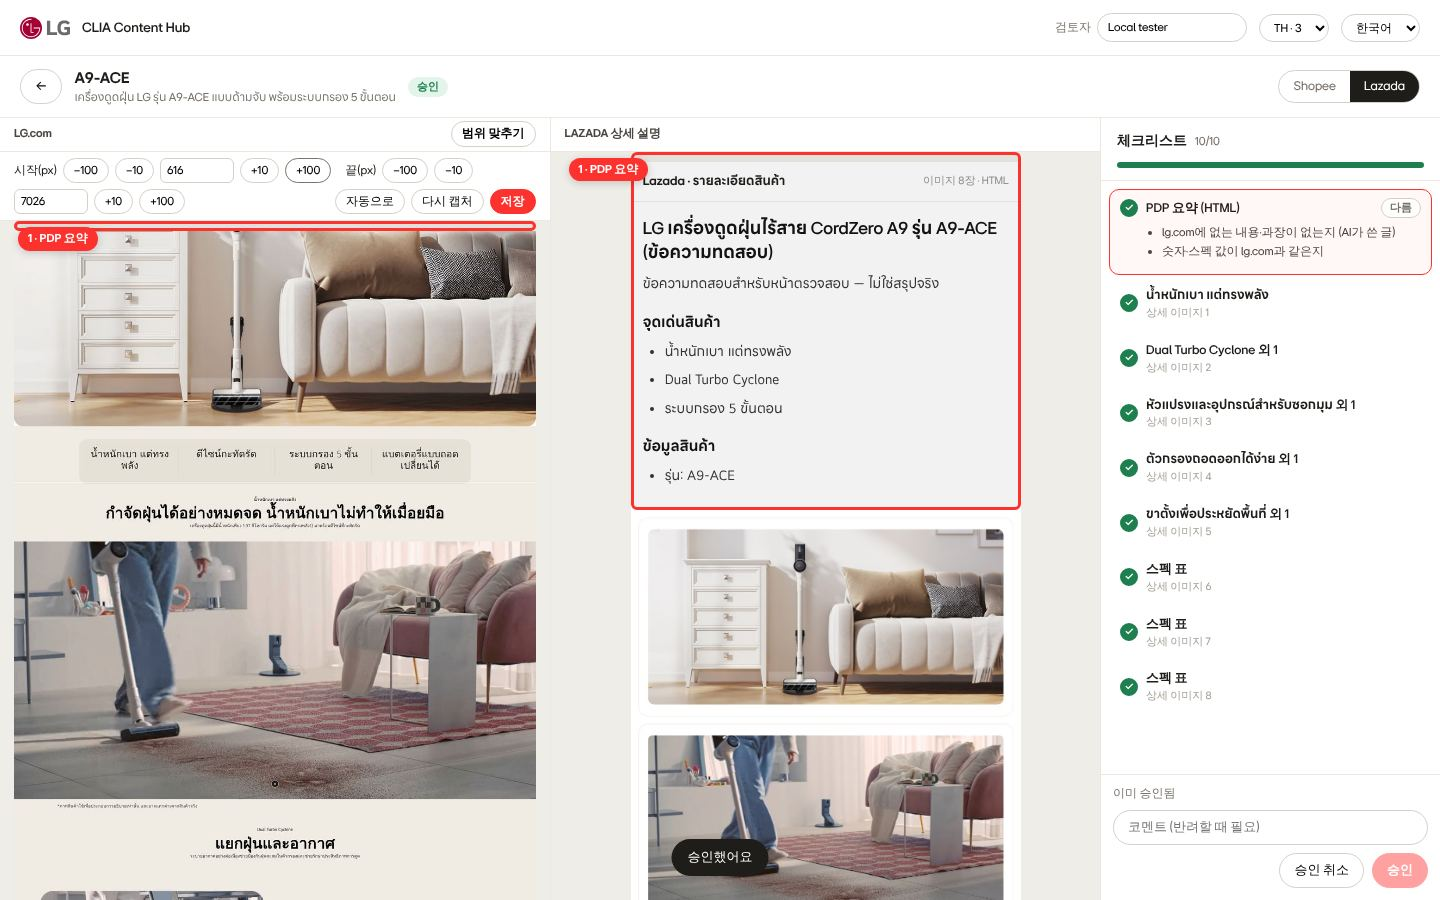
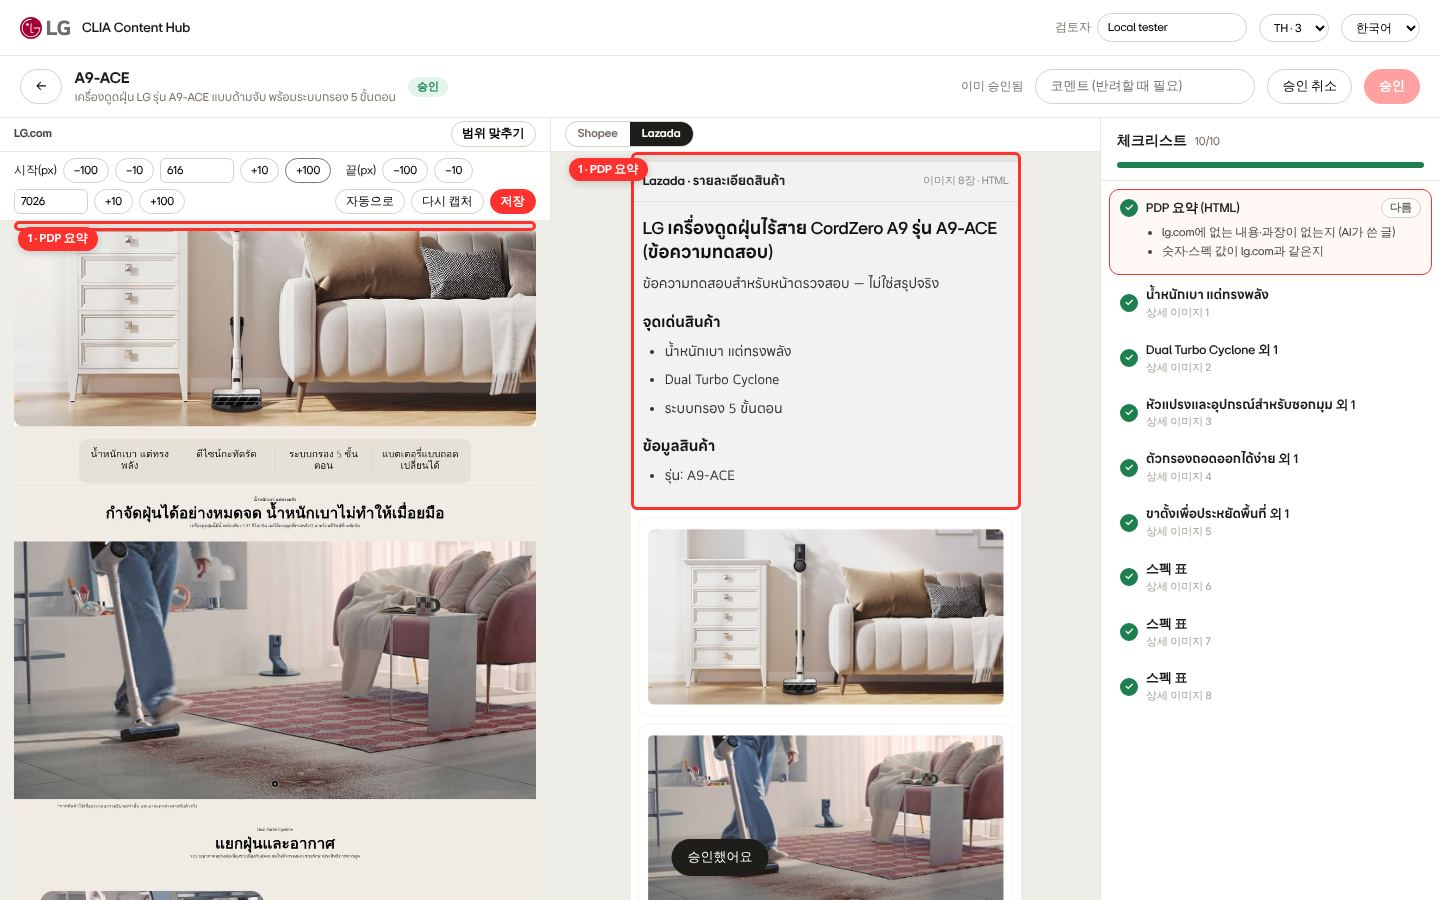
검토 화면: 결정 버튼은 오른쪽 위, Shopee/Lazada 토글은 오른쪽(결과) 패널 머리로
- 비교: 머리 줄 오른쪽에 [승인 못 하는 까닭 · 코멘트 · 반려|승인 취소 · 승인]
- 목록: 고르면 제목 줄 오른쪽에 [n개 선택 · 취소 · 선택 승인]
- 채널 토글은 그 토글이 바꾸는 결과 패널 머리에 (작은 토글)

Claude-Session: https://claude.ai/code/session_01Qc8KZ9fFX6kBVHrq9Tv6ME

diff --git a/review/index.html b/review/index.html
@@ -65,8 +65,10 @@ td .m,.cb .m{font-weight:700}td .s{font-size:12px;color:var(--g500);max-width:42
 .cb .meta{font-size:12px;color:var(--g700)}
 .empty{text-align:center;color:#999;padding:30px}
 .more{text-align:center;padding:14px}
-.selbar{position:absolute;right:24px;bottom:18px;background:var(--g900);color:#fff;border-radius:999px;padding:8px 10px 8px 18px;display:none;gap:10px;align-items:center;box-shadow:0 8px 24px rgba(0,0,0,.25)}
-.selbar.on{display:flex}.selbar small{color:#cfc9bf}
+.selbar{display:none;gap:8px;align-items:center;font-size:13px;color:var(--g700)}.selbar.on{display:flex}
+.chd .why{font-size:12px;color:var(--g500);max-width:280px;white-space:nowrap;overflow:hidden;text-overflow:ellipsis}
+.chd .cmt{width:220px;border:1px solid var(--g300);border-radius:999px;padding:7px 14px;font:inherit;font-size:13px}.chd .cmt.err{border-color:var(--bad)}
+.seg.sm button{padding:3px 12px;font-size:12px}
 /* 비교 */
 .chd{display:flex;align-items:center;gap:12px;padding:10px 20px;background:#fff;border-bottom:1px solid var(--line)}
 .chd .id .m{font-weight:700;font-size:16px}.chd .id .s{font-size:12px;color:var(--g500);max-width:460px;white-space:nowrap;overflow:hidden;text-overflow:ellipsis}
@@ -106,9 +108,6 @@ td .m,.cb .m{font-weight:700}td .s{font-size:12px;color:var(--g500);max-width:42
 .prep .err{color:var(--bad);font-size:13px;margin:0 0 10px;word-break:break-word}.prep p{font-size:12px;color:var(--g500);margin:0 0 12px}
 aside{display:flex;flex-direction:column;min-height:0;background:#fff;border-left:1px solid var(--line)}
 .ckh{padding:12px 16px 10px;border-bottom:1px solid var(--line)}.ckh b{font-size:14px}.ckh .p{font-size:12px;color:var(--g500);margin-left:8px}
-.ckf{border-top:1px solid var(--line);padding:10px 12px 12px;display:grid;gap:8px;background:#fff}.ckf .why{font-size:12px;color:var(--g500);min-height:16px}
-.ckf input{width:100%;border:1px solid var(--g300);border-radius:999px;padding:7px 14px;font:inherit;font-size:13px}.ckf input.err{border-color:var(--bad)}
-.ckf .acts{display:flex;gap:8px;justify-content:flex-end}
 .ckh .prog{width:100%;height:6px;margin:8px 0 0}
 .ckl{flex:1;overflow:auto;padding:6px 8px 40px}
 .it{border-radius:10px;padding:8px 10px;margin:2px 0;cursor:pointer;border:1px solid transparent}
@@ -133,7 +132,8 @@ aside{display:flex;flex-direction:column;min-height:0;background:#fff;border-lef
  <button class="btn" id="closeBtn" hidden onclick="parent.postMessage('clia-review-close','*')">✕</button></div>
 
 <main class="view on" id="vList">
- <div class="lhd"><h2 data-t="h"></h2><span class="sp"></span><span class="cnt" id="okCnt"></span></div>
+ <div class="lhd"><h2 data-t="h"></h2><span class="cnt" id="okCnt"></span><span class="sp"></span>
+  <div class="selbar" id="selbar"><span id="selN"></span><button class="btn" onclick="S.sel.clear();renderList()" data-t="cancel"></button><button class="btn pri" onclick="bulkApprove()" data-t="approveSel"></button></div></div>
  <div class="flt">
   <div class="tabs" id="tabs"></div>
   <details class="dd" id="ddDv"><summary id="sDv"></summary><div class="ddp" id="pDv"></div></details>
@@ -147,13 +147,13 @@ aside{display:flex;flex-direction:column;min-height:0;background:#fff;border-lef
   <th style="width:36px"></th><th style="width:56px"></th><th data-t="thProd"></th><th data-t="thGrp"></th><th data-t="thImgs"></th><th data-t="thSt"></th></tr></thead>
   <tbody id="rows"></tbody></table><div class="more" id="moreL"></div></div>
  <div class="gal" id="galBox" hidden><div class="cards" id="cards"></div><div class="more" id="moreG"></div></div>
- <div class="selbar" id="selbar"><span id="selN"></span><button class="btn" onclick="S.sel.clear();renderList()" data-t="cancel"></button><button class="btn pri" onclick="bulkApprove()" data-t="approveSel"></button></div>
 </main>
 
 <main class="view" id="vCmp">
  <div class="chd"><button class="btn" onclick="closeCmp()">←</button><div class="id"><div class="m" id="cModel"></div><a class="s" id="cTitle" lang="th" target="_blank" rel="noopener"></a></div>
   <span id="cSt"></span><span class="sp"></span>
-  <div class="seg" id="chSeg"><button data-c="shopee" onclick="setCh('shopee')">Shopee</button><button data-c="lazada" onclick="setCh('lazada')">Lazada</button></div></div>
+  <span class="why" id="bWhy"></span><input class="cmt" id="cmt" data-tp="cmtPh">
+  <button class="btn" id="bUndo" hidden onclick="unapprove()" data-t="unapprove"></button><button class="btn" id="bRej" onclick="reject()" data-t="reject"></button><button class="btn pri" id="bOk" onclick="approve()" data-t="approve"></button></div>
  <div class="banner" id="banner" hidden><span id="bannerTx"></span><button class="btn sm" onclick="prepareCur(false)" data-t="reprep"></button></div>
  <div class="main">
   <div class="sc" id="sc">
@@ -163,14 +163,12 @@ aside{display:flex;flex-direction:column;min-height:0;background:#fff;border-lef
       <span data-t="cropBottom" style="margin-left:8px"></span><button class="btn sm" onclick="nudge('bottom',-100)">−100</button><button class="btn sm" onclick="nudge('bottom',-10)">−10</button><input id="cBot" type="number" onchange="cropInput()"><button class="btn sm" onclick="nudge('bottom',10)">+10</button><button class="btn sm" onclick="nudge('bottom',100)">+100</button>
       <span class="sp" style="flex:1"></span><button class="btn sm" onclick="cropAuto()" data-t="cropAuto"></button><button class="btn sm" onclick="recapture()" data-t="recapture"></button><button class="btn sm pri" onclick="cropSave()" data-t="cropSave"></button></div>
      <div class="vp" id="vpL"><div class="mv" id="mvL"></div><div class="segbox" id="segL" hidden></div><span class="segtag" id="segTagL"></span></div></section>
-    <section class="pane"><div class="ph"><span id="rTitle"></span><span class="r"><span class="badge b-warn" id="imgWarn" hidden></span></span></div><div class="vp" id="vpR"><div class="mv" id="mvR"></div><div class="segbox" id="segR" hidden></div><span class="segtag" id="segTagR"></span></div></section>
+    <section class="pane"><div class="ph"><div class="seg sm" id="chSeg"><button data-c="shopee" onclick="setCh('shopee')">Shopee</button><button data-c="lazada" onclick="setCh('lazada')">Lazada</button></div><span class="r"><span class="badge b-warn" id="imgWarn" hidden></span></span></div><div class="vp" id="vpR"><div class="mv" id="mvR"></div><div class="segbox" id="segR" hidden></div><span class="segtag" id="segTagR"></span></div></section>
    </div>
    <div id="spacer"></div><div id="snaps"></div>
    <div class="prep" id="prep"><div class="box" id="prepBox"></div></div>
   </div>
-  <aside><div class="ckh"><b data-t="ck"></b><span class="p" id="ckP"></span><div class="prog"><i id="ckBar"></i></div></div><div class="ckl" id="ckl"></div>
-   <div class="ckf"><div class="why" id="bWhy"></div><input id="cmt" data-tp="cmtPh">
-    <div class="acts"><button class="btn" id="bUndo" hidden onclick="unapprove()" data-t="unapprove"></button><button class="btn" id="bRej" onclick="reject()" data-t="reject"></button><button class="btn pri" id="bOk" onclick="approve()" data-t="approve"></button></div></div></aside>
+  <aside><div class="ckh"><b data-t="ck"></b><span class="p" id="ckP"></span><div class="prog"><i id="ckBar"></i></div></div><div class="ckl" id="ckl"></div></aside>
  </div>
 </main>
 <div class="toast" id="toast"></div>
@@ -449,7 +447,6 @@ function renderCmp(fresh,keepS){
   if(!C)return;const p=C.p,ch=C.ch,shp=ch==='shopee',d=C.d[ch];
   $('cModel').textContent=p.model;$('cTitle').textContent=p.title;$('cTitle').href=p.url;
   document.querySelectorAll('#chSeg button').forEach(b=>b.classList.toggle('on',b.dataset.c===ch));
-  $('rTitle').textContent=t('rTitle',shp?'SHOPEE':'LAZADA');
   renderPrep();
   const stale=CHS.some(c=>C.st[c]&&C.st[c].state==='stale');$('banner').hidden=!stale;$('bannerTx').textContent=t('staleTx');
   renderBar();
@@ -587,8 +584,8 @@ function renderBar(){
   if(!C)return;const p=C.p,s=stOf(p),done=s==='ok',both=CHS.every(ready),pr=progress();
   const stale=CHS.some(ch=>C.st[ch]&&C.st[ch].state==='stale');
   const why=done?t('whyDone'):stale?t('whyStale'):!both?t('whyPrep'):pr.flags?t('whyFlag',pr.flags):pr.n<pr.all?t('whyProg',pr.n,pr.all):'';
-  // 버튼 자리는 늘 같다: 오른쪽 아래 [반려 | 승인 취소] [승인]. 승인을 못 하는 까닭은 버튼 위 한 줄로
-  $('bWhy').textContent=why;$('bOk').disabled=!!why;$('bRej').hidden=done;$('bUndo').hidden=!done;
+  // 버튼 자리는 늘 같다: 오른쪽 위 [반려 | 승인 취소] [승인]. 승인을 못 하는 까닭은 그 왼쪽 한 줄로
+  $('bWhy').textContent=why;$('bWhy').title=why;$('bOk').disabled=!!why;$('bRej').hidden=done;$('bUndo').hidden=!done;
   $('cSt').innerHTML=stBadge(p);
 }
 async function decide(state,via){
